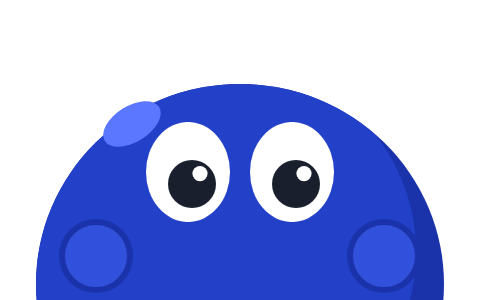
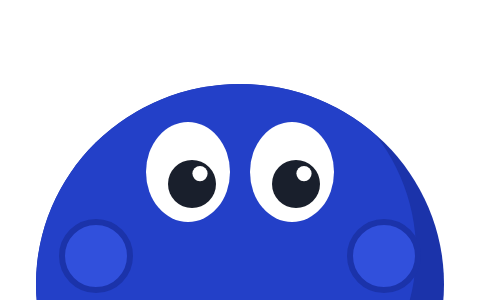
docs(design): drop the highlight on the peeking Peek
Claude-Session: https://claude.ai/code/session_01XX821iReMkUTtA22TbVSA7

Changed region(s): [[0.2188, 0.33, 0.3438, 0.51]]

diff --git a/design/boards/TanyaJe.dc.html b/design/boards/TanyaJe.dc.html
@@ -601,7 +601,7 @@ details.q[open] summary::after{content:'–'}
 
 <form onSubmit="{{ onClaim }}" style="position: relative; display: flex; flex-wrap: wrap; gap: 8px; margin-top: 32px; max-width: 540px">
 <label for="claim-tj" class="sr">The address you want for your page</label>
-<span style="position: relative; flex: 1 1 240px; display: flex; min-height: 56px"><span class="pk" aria-hidden="true" style="width: 78px; right: 26px; top: -41.6px"><svg viewBox="0 0 120 96"><defs><clipPath id="pktany1"><ellipse cx="60" cy="71" rx="51" ry="50"></ellipse></clipPath></defs><g clip-path="url(#pktany1)"><rect x="0" y="10" width="120" height="90" fill="#1b33aa"></rect><ellipse cx="53" cy="63" rx="51" ry="49" fill="#2340c8"></ellipse></g><ellipse cx="33" cy="31" rx="8" ry="4.5" fill="#5b76ff" transform="rotate(-32 33 31)"></ellipse><g class="pk-eyes"><ellipse cx="47" cy="43" rx="10.5" ry="12.5" fill="#fff"></ellipse><ellipse cx="73" cy="43" rx="10.5" ry="12.5" fill="#fff"></ellipse><g class="pk-p"><circle cx="48" cy="46" r="6" fill="#191f2c"></circle><circle cx="74" cy="46" r="6" fill="#191f2c"></circle><circle cx="50" cy="43.4" r="1.9" fill="#fff"></circle><circle cx="76" cy="43.4" r="1.9" fill="#fff"></circle></g></g><g class="pk-happy"><path d="M38 46q9-10.5 18 0M64 46q9-10.5 18 0" fill="none" stroke="#fff" stroke-width="5" stroke-linecap="round"></path></g></svg></span><span class="pk pk-front" aria-hidden="true" style="width: 78px; right: 26px; top: -41.6px"><svg viewBox="0 0 120 96"><g class="pk-hands"><circle cx="24" cy="64" r="8.5"></circle><circle cx="96" cy="64" r="8.5"></circle></g><g class="pk-cover"><circle cx="46" cy="45" r="12.5"></circle><circle cx="74" cy="45" r="12.5"></circle></g></svg></span><span style="position: relative; z-index: 1; flex: 1; display: flex; align-items: center; min-height: 56px; padding: 0 16px; border: 1.5px solid #191f2c; border-radius: 12px; background: #ffffff"><span aria-hidden="true" style="color: #696e7b">curios.my/</span><input id="claim-tj" name="handle" placeholder="yourname" autocomplete="off" style="flex: 1; min-width: 0; height: 52px; border: 0; background: transparent; font: inherit; font-weight: 600; color: #191f2c; outline: none"></span></span>
+<span style="position: relative; flex: 1 1 240px; display: flex; min-height: 56px"><span class="pk" aria-hidden="true" style="width: 78px; right: 26px; top: -41.6px"><svg viewBox="0 0 120 96"><defs><clipPath id="pktany1"><ellipse cx="60" cy="71" rx="51" ry="50"></ellipse></clipPath></defs><g clip-path="url(#pktany1)"><rect x="0" y="10" width="120" height="90" fill="#1b33aa"></rect><ellipse cx="53" cy="63" rx="51" ry="49" fill="#2340c8"></ellipse></g><g class="pk-eyes"><ellipse cx="47" cy="43" rx="10.5" ry="12.5" fill="#fff"></ellipse><ellipse cx="73" cy="43" rx="10.5" ry="12.5" fill="#fff"></ellipse><g class="pk-p"><circle cx="48" cy="46" r="6" fill="#191f2c"></circle><circle cx="74" cy="46" r="6" fill="#191f2c"></circle><circle cx="50" cy="43.4" r="1.9" fill="#fff"></circle><circle cx="76" cy="43.4" r="1.9" fill="#fff"></circle></g></g><g class="pk-happy"><path d="M38 46q9-10.5 18 0M64 46q9-10.5 18 0" fill="none" stroke="#fff" stroke-width="5" stroke-linecap="round"></path></g></svg></span><span class="pk pk-front" aria-hidden="true" style="width: 78px; right: 26px; top: -41.6px"><svg viewBox="0 0 120 96"><g class="pk-hands"><circle cx="24" cy="64" r="8.5"></circle><circle cx="96" cy="64" r="8.5"></circle></g><g class="pk-cover"><circle cx="46" cy="45" r="12.5"></circle><circle cx="74" cy="45" r="12.5"></circle></g></svg></span><span style="position: relative; z-index: 1; flex: 1; display: flex; align-items: center; min-height: 56px; padding: 0 16px; border: 1.5px solid #191f2c; border-radius: 12px; background: #ffffff"><span aria-hidden="true" style="color: #696e7b">curios.my/</span><input id="claim-tj" name="handle" placeholder="yourname" autocomplete="off" style="flex: 1; min-width: 0; height: 52px; border: 0; background: transparent; font: inherit; font-weight: 600; color: #191f2c; outline: none"></span></span>
 <button type="submit" class="btn" onClick="{{ onSpark }}">Claim it, free</button>
 <sc-if value="{{ sparkOn }}" hint-placeholder-val="{{ false }}">
 <span aria-hidden="true" style="position: absolute; left: {{sparkX}}px; top: {{sparkY}}px; width: 0; height: 0">
@@ -1075,7 +1075,7 @@ I’m an illustrator in Ipoh. <mark style="background: {{hl0}}; color: inherit; 
 
 <form onSubmit="{{ onClaim }}" class="cl2-claim">
 <label for="claim-end" class="sr">The address you want for your page</label>
-<span style="position: relative; flex: 1 1 320px; display: flex"><span class="pk" aria-hidden="true" style="width: 104px; right: 40px; top: -55.5px"><svg viewBox="0 0 120 96"><defs><clipPath id="pktany2"><ellipse cx="60" cy="71" rx="51" ry="50"></ellipse></clipPath></defs><g clip-path="url(#pktany2)"><rect x="0" y="10" width="120" height="90" fill="#1b33aa"></rect><ellipse cx="53" cy="63" rx="51" ry="49" fill="#2340c8"></ellipse></g><ellipse cx="33" cy="31" rx="8" ry="4.5" fill="#5b76ff" transform="rotate(-32 33 31)"></ellipse><g class="pk-eyes"><ellipse cx="47" cy="43" rx="10.5" ry="12.5" fill="#fff"></ellipse><ellipse cx="73" cy="43" rx="10.5" ry="12.5" fill="#fff"></ellipse><g class="pk-p"><circle cx="48" cy="46" r="6" fill="#191f2c"></circle><circle cx="74" cy="46" r="6" fill="#191f2c"></circle><circle cx="50" cy="43.4" r="1.9" fill="#fff"></circle><circle cx="76" cy="43.4" r="1.9" fill="#fff"></circle></g></g><g class="pk-happy"><path d="M38 46q9-10.5 18 0M64 46q9-10.5 18 0" fill="none" stroke="#fff" stroke-width="5" stroke-linecap="round"></path></g></svg></span><span class="pk pk-front" aria-hidden="true" style="width: 104px; right: 40px; top: -55.5px"><svg viewBox="0 0 120 96"><g class="pk-hands"><circle cx="24" cy="64" r="8.5"></circle><circle cx="96" cy="64" r="8.5"></circle></g><g class="pk-cover"><circle cx="46" cy="45" r="12.5"></circle><circle cx="74" cy="45" r="12.5"></circle></g></svg></span><span class="cl2-field" style="position: relative; z-index: 1"><span aria-hidden="true">curios.my/</span><input id="claim-end" name="handle" placeholder="yourname" autocomplete="off" maxlength="24"></span></span>
+<span style="position: relative; flex: 1 1 320px; display: flex"><span class="pk" aria-hidden="true" style="width: 104px; right: 40px; top: -55.5px"><svg viewBox="0 0 120 96"><defs><clipPath id="pktany2"><ellipse cx="60" cy="71" rx="51" ry="50"></ellipse></clipPath></defs><g clip-path="url(#pktany2)"><rect x="0" y="10" width="120" height="90" fill="#1b33aa"></rect><ellipse cx="53" cy="63" rx="51" ry="49" fill="#2340c8"></ellipse></g><g class="pk-eyes"><ellipse cx="47" cy="43" rx="10.5" ry="12.5" fill="#fff"></ellipse><ellipse cx="73" cy="43" rx="10.5" ry="12.5" fill="#fff"></ellipse><g class="pk-p"><circle cx="48" cy="46" r="6" fill="#191f2c"></circle><circle cx="74" cy="46" r="6" fill="#191f2c"></circle><circle cx="50" cy="43.4" r="1.9" fill="#fff"></circle><circle cx="76" cy="43.4" r="1.9" fill="#fff"></circle></g></g><g class="pk-happy"><path d="M38 46q9-10.5 18 0M64 46q9-10.5 18 0" fill="none" stroke="#fff" stroke-width="5" stroke-linecap="round"></path></g></svg></span><span class="pk pk-front" aria-hidden="true" style="width: 104px; right: 40px; top: -55.5px"><svg viewBox="0 0 120 96"><g class="pk-hands"><circle cx="24" cy="64" r="8.5"></circle><circle cx="96" cy="64" r="8.5"></circle></g><g class="pk-cover"><circle cx="46" cy="45" r="12.5"></circle><circle cx="74" cy="45" r="12.5"></circle></g></svg></span><span class="cl2-field" style="position: relative; z-index: 1"><span aria-hidden="true">curios.my/</span><input id="claim-end" name="handle" placeholder="yourname" autocomplete="off" maxlength="24"></span></span>
 <span onMouseMove="{{ magnetMove }}" onMouseLeave="{{ magnetLeave }}" style="position: relative; display: inline-block; padding: 12px">
 <button type="submit" class="btn" onClick="{{ onSpark2 }}" style="min-height: 64px; padding: 0 32px; font-size: 18px; background: #eaf0ff; color: #191f2c; transform: translate({{magX}}px, {{magY}}px); transition: transform {{magDur}} cubic-bezier(0.34, 1.4, 0.64, 1)">Claim it, free</button>
 <sc-if value="{{ spark2On }}" hint-placeholder-val="{{ false }}">

diff --git a/design/boards/Main.dc.html b/design/boards/Main.dc.html
@@ -127,7 +127,7 @@ a{color:#191f2c}a:hover{color:#2340c8}
 <h1 id="hero-title" style="margin: 0; max-width: 11ch; font-family: var(--disp); font-size: clamp(41.5px, 24.16px + 4.445vw, 81.06px); font-weight: 800; line-height: 0.98; letter-spacing: -0.04em; color: #122686">{{heroTitle}}</h1>
 <p style="margin: 24px 0 0; max-width: 32em; font-size: 17px; color: #191f2c">For shops that sell on Instagram and WhatsApp. Curios answers your customers in Malay or English from the prices and details you approve, and sends you the number of anyone ready to order.</p>
 <div style="margin-top: 32px">
-<form class="claim" action="/signup" method="get"><span class="pk" aria-hidden="true" style="width: 78px; left: 190px; top: -36px"><svg viewBox="0 0 120 96"><defs><clipPath id="pkmain1"><ellipse cx="60" cy="71" rx="51" ry="50"></ellipse></clipPath></defs><g clip-path="url(#pkmain1)"><rect x="0" y="10" width="120" height="90" fill="#1b33aa"></rect><ellipse cx="53" cy="63" rx="51" ry="49" fill="#2340c8"></ellipse></g><ellipse cx="33" cy="31" rx="8" ry="4.5" fill="#5b76ff" transform="rotate(-32 33 31)"></ellipse><g class="pk-eyes"><ellipse cx="47" cy="43" rx="10.5" ry="12.5" fill="#fff"></ellipse><ellipse cx="73" cy="43" rx="10.5" ry="12.5" fill="#fff"></ellipse><g class="pk-p"><circle cx="48" cy="46" r="6" fill="#191f2c"></circle><circle cx="74" cy="46" r="6" fill="#191f2c"></circle><circle cx="50" cy="43.4" r="1.9" fill="#fff"></circle><circle cx="76" cy="43.4" r="1.9" fill="#fff"></circle></g></g><g class="pk-happy"><path d="M38 46q9-10.5 18 0M64 46q9-10.5 18 0" fill="none" stroke="#fff" stroke-width="5" stroke-linecap="round"></path></g></svg></span><span class="pk pk-front" aria-hidden="true" style="width: 78px; left: 190px; top: -36px"><svg viewBox="0 0 120 96"><g class="pk-hands"><circle cx="24" cy="64" r="8.5"></circle><circle cx="96" cy="64" r="8.5"></circle></g><g class="pk-cover"><circle cx="46" cy="45" r="12.5"></circle><circle cx="74" cy="45" r="12.5"></circle></g></svg></span>
+<form class="claim" action="/signup" method="get"><span class="pk" aria-hidden="true" style="width: 78px; left: 190px; top: -36px"><svg viewBox="0 0 120 96"><defs><clipPath id="pkmain1"><ellipse cx="60" cy="71" rx="51" ry="50"></ellipse></clipPath></defs><g clip-path="url(#pkmain1)"><rect x="0" y="10" width="120" height="90" fill="#1b33aa"></rect><ellipse cx="53" cy="63" rx="51" ry="49" fill="#2340c8"></ellipse></g><g class="pk-eyes"><ellipse cx="47" cy="43" rx="10.5" ry="12.5" fill="#fff"></ellipse><ellipse cx="73" cy="43" rx="10.5" ry="12.5" fill="#fff"></ellipse><g class="pk-p"><circle cx="48" cy="46" r="6" fill="#191f2c"></circle><circle cx="74" cy="46" r="6" fill="#191f2c"></circle><circle cx="50" cy="43.4" r="1.9" fill="#fff"></circle><circle cx="76" cy="43.4" r="1.9" fill="#fff"></circle></g></g><g class="pk-happy"><path d="M38 46q9-10.5 18 0M64 46q9-10.5 18 0" fill="none" stroke="#fff" stroke-width="5" stroke-linecap="round"></path></g></svg></span><span class="pk pk-front" aria-hidden="true" style="width: 78px; left: 190px; top: -36px"><svg viewBox="0 0 120 96"><g class="pk-hands"><circle cx="24" cy="64" r="8.5"></circle><circle cx="96" cy="64" r="8.5"></circle></g><g class="pk-cover"><circle cx="46" cy="45" r="12.5"></circle><circle cx="74" cy="45" r="12.5"></circle></g></svg></span>
 <label for="claim-hero" class="sr">The address you want for your page</label>
 <div class="field"><span aria-hidden="true" style="color: #696e7b">curios.my/</span><input id="claim-hero" name="handle" placeholder="yourshop" autocomplete="off"></div>
 <button type="submit" class="btn" style="background: #2340c8; color: #fafbfc">Create your free page</button>
@@ -369,7 +369,7 @@ a{color:#191f2c}a:hover{color:#2340c8}
 <div class="wrap">
 <h2 id="final-title" style="margin: 0; max-width: 14ch; font-family: var(--disp); font-size: clamp(41.5px, 24.16px + 4.445vw, 81.06px); font-weight: 800; line-height: 0.98; letter-spacing: -0.04em; color: #eaf0ff">Put your price list in your bio link.</h2>
 <p style="margin: 24px 0 40px; max-width: 30em; font-size: 21.25px; color: #bfd1f9">Paste your website or a few paragraphs about your shop, approve the facts it finds, and share the link.</p>
-<form class="claim" action="/signup" method="get"><span class="pk" aria-hidden="true" style="width: 78px; left: 190px; top: -36px"><svg viewBox="0 0 120 96"><defs><clipPath id="pkmain2"><ellipse cx="60" cy="71" rx="51" ry="50"></ellipse></clipPath></defs><g clip-path="url(#pkmain2)"><rect x="0" y="10" width="120" height="90" fill="#1b33aa"></rect><ellipse cx="53" cy="63" rx="51" ry="49" fill="#2340c8"></ellipse></g><ellipse cx="33" cy="31" rx="8" ry="4.5" fill="#5b76ff" transform="rotate(-32 33 31)"></ellipse><g class="pk-eyes"><ellipse cx="47" cy="43" rx="10.5" ry="12.5" fill="#fff"></ellipse><ellipse cx="73" cy="43" rx="10.5" ry="12.5" fill="#fff"></ellipse><g class="pk-p"><circle cx="48" cy="46" r="6" fill="#191f2c"></circle><circle cx="74" cy="46" r="6" fill="#191f2c"></circle><circle cx="50" cy="43.4" r="1.9" fill="#fff"></circle><circle cx="76" cy="43.4" r="1.9" fill="#fff"></circle></g></g><g class="pk-happy"><path d="M38 46q9-10.5 18 0M64 46q9-10.5 18 0" fill="none" stroke="#fff" stroke-width="5" stroke-linecap="round"></path></g></svg></span><span class="pk pk-front" aria-hidden="true" style="width: 78px; left: 190px; top: -36px"><svg viewBox="0 0 120 96"><g class="pk-hands"><circle cx="24" cy="64" r="8.5"></circle><circle cx="96" cy="64" r="8.5"></circle></g><g class="pk-cover"><circle cx="46" cy="45" r="12.5"></circle><circle cx="74" cy="45" r="12.5"></circle></g></svg></span>
+<form class="claim" action="/signup" method="get"><span class="pk" aria-hidden="true" style="width: 78px; left: 190px; top: -36px"><svg viewBox="0 0 120 96"><defs><clipPath id="pkmain2"><ellipse cx="60" cy="71" rx="51" ry="50"></ellipse></clipPath></defs><g clip-path="url(#pkmain2)"><rect x="0" y="10" width="120" height="90" fill="#1b33aa"></rect><ellipse cx="53" cy="63" rx="51" ry="49" fill="#2340c8"></ellipse></g><g class="pk-eyes"><ellipse cx="47" cy="43" rx="10.5" ry="12.5" fill="#fff"></ellipse><ellipse cx="73" cy="43" rx="10.5" ry="12.5" fill="#fff"></ellipse><g class="pk-p"><circle cx="48" cy="46" r="6" fill="#191f2c"></circle><circle cx="74" cy="46" r="6" fill="#191f2c"></circle><circle cx="50" cy="43.4" r="1.9" fill="#fff"></circle><circle cx="76" cy="43.4" r="1.9" fill="#fff"></circle></g></g><g class="pk-happy"><path d="M38 46q9-10.5 18 0M64 46q9-10.5 18 0" fill="none" stroke="#fff" stroke-width="5" stroke-linecap="round"></path></g></svg></span><span class="pk pk-front" aria-hidden="true" style="width: 78px; left: 190px; top: -36px"><svg viewBox="0 0 120 96"><g class="pk-hands"><circle cx="24" cy="64" r="8.5"></circle><circle cx="96" cy="64" r="8.5"></circle></g><g class="pk-cover"><circle cx="46" cy="45" r="12.5"></circle><circle cx="74" cy="45" r="12.5"></circle></g></svg></span>
 <label for="claim-final" class="sr">The address you want for your page</label>
 <div class="field" style="box-shadow: none"><span aria-hidden="true" style="color: #696e7b">curios.my/</span><input id="claim-final" name="handle" placeholder="yourshop" autocomplete="off"></div>
 <button type="submit" class="btn" style="background: #eaf0ff; color: #122686">Create your free page</button>

diff --git a/design/boards/SignUp.dc.html b/design/boards/SignUp.dc.html
@@ -202,7 +202,7 @@ a{color:#2340c8}a:hover{color:#122686}
 <a class="g-btn" href="#google" style="margin-top: 24px"><svg aria-hidden="true" viewBox="0 0 24 24" width="20" height="20"><path fill="#4285F4" d="M22.6 12.2c0-.8-.1-1.5-.2-2.2H12v4.2h5.9a5 5 0 0 1-2.2 3.3v2.7h3.6c2.1-1.9 3.3-4.8 3.3-8z"></path><path fill="#34A853" d="M12 23c3 0 5.5-1 7.3-2.7l-3.6-2.7c-1 .7-2.2 1.1-3.7 1.1-2.9 0-5.3-1.9-6.2-4.5H2.1v2.8A11 11 0 0 0 12 23z"></path><path fill="#FBBC05" d="M5.8 14.2a6.6 6.6 0 0 1 0-4.3V7.1H2.1a11 11 0 0 0 0 9.9z"></path><path fill="#EA4335" d="M12 5.4c1.6 0 3.1.6 4.2 1.7l3.2-3.2A11 11 0 0 0 2.1 7.1l3.7 2.8C6.7 7.3 9.1 5.4 12 5.4z"></path></svg>Continue with Google</a>
 <p class="or">or with email</p>
 <form onSubmit="{{ submit }}">
-<label class="fld" style="position: relative"><span>Email</span><span class="pk" aria-hidden="true" style="width: 84px; right: 18px; top: -18.8px"><svg viewBox="0 0 120 96"><defs><clipPath id="pksign1"><ellipse cx="60" cy="71" rx="51" ry="50"></ellipse></clipPath></defs><g clip-path="url(#pksign1)"><rect x="0" y="10" width="120" height="90" fill="#1b33aa"></rect><ellipse cx="53" cy="63" rx="51" ry="49" fill="#2340c8"></ellipse></g><ellipse cx="33" cy="31" rx="8" ry="4.5" fill="#5b76ff" transform="rotate(-32 33 31)"></ellipse><g class="pk-eyes"><ellipse cx="47" cy="43" rx="10.5" ry="12.5" fill="#fff"></ellipse><ellipse cx="73" cy="43" rx="10.5" ry="12.5" fill="#fff"></ellipse><g class="pk-p"><circle cx="48" cy="46" r="6" fill="#191f2c"></circle><circle cx="74" cy="46" r="6" fill="#191f2c"></circle><circle cx="50" cy="43.4" r="1.9" fill="#fff"></circle><circle cx="76" cy="43.4" r="1.9" fill="#fff"></circle></g></g><g class="pk-happy"><path d="M38 46q9-10.5 18 0M64 46q9-10.5 18 0" fill="none" stroke="#fff" stroke-width="5" stroke-linecap="round"></path></g></svg></span><span class="pk pk-front" aria-hidden="true" style="width: 84px; right: 18px; top: -18.8px"><svg viewBox="0 0 120 96"><g class="pk-hands"><circle cx="24" cy="64" r="8.5"></circle><circle cx="96" cy="64" r="8.5"></circle></g><g class="pk-cover"><circle cx="46" cy="45" r="12.5"></circle><circle cx="74" cy="45" r="12.5"></circle></g></svg></span><span class="inp" style="position: relative; z-index: 1"><input type="email" autocomplete="email" placeholder="you@example.com" value="{{ email }}" onChange="{{ setEmail }}" required></span></label>
+<label class="fld" style="position: relative"><span>Email</span><span class="pk" aria-hidden="true" style="width: 84px; right: 18px; top: -18.8px"><svg viewBox="0 0 120 96"><defs><clipPath id="pksign1"><ellipse cx="60" cy="71" rx="51" ry="50"></ellipse></clipPath></defs><g clip-path="url(#pksign1)"><rect x="0" y="10" width="120" height="90" fill="#1b33aa"></rect><ellipse cx="53" cy="63" rx="51" ry="49" fill="#2340c8"></ellipse></g><g class="pk-eyes"><ellipse cx="47" cy="43" rx="10.5" ry="12.5" fill="#fff"></ellipse><ellipse cx="73" cy="43" rx="10.5" ry="12.5" fill="#fff"></ellipse><g class="pk-p"><circle cx="48" cy="46" r="6" fill="#191f2c"></circle><circle cx="74" cy="46" r="6" fill="#191f2c"></circle><circle cx="50" cy="43.4" r="1.9" fill="#fff"></circle><circle cx="76" cy="43.4" r="1.9" fill="#fff"></circle></g></g><g class="pk-happy"><path d="M38 46q9-10.5 18 0M64 46q9-10.5 18 0" fill="none" stroke="#fff" stroke-width="5" stroke-linecap="round"></path></g></svg></span><span class="pk pk-front" aria-hidden="true" style="width: 84px; right: 18px; top: -18.8px"><svg viewBox="0 0 120 96"><g class="pk-hands"><circle cx="24" cy="64" r="8.5"></circle><circle cx="96" cy="64" r="8.5"></circle></g><g class="pk-cover"><circle cx="46" cy="45" r="12.5"></circle><circle cx="74" cy="45" r="12.5"></circle></g></svg></span><span class="inp" style="position: relative; z-index: 1"><input type="email" autocomplete="email" placeholder="you@example.com" value="{{ email }}" onChange="{{ setEmail }}" required></span></label>
 <label class="fld" for="pw-up"><span>Password</span><span class="inp"><input id="pw-up" type="{{pwType}}" autocomplete="new-password" required><button type="button" class="eye" aria-label="{{eyeLabel}}" onClick="{{ toggleEye }}"><svg viewBox="0 0 24 24" width="18" height="18" fill="none" stroke="currentColor" stroke-width="2" stroke-linecap="round" stroke-linejoin="round"><path d="M2 12s3.6-7 10-7 10 7 10 7-3.6 7-10 7S2 12 2 12z"></path><circle cx="12" cy="12" r="3"></circle></svg></button></span></label>
 <button type="submit" class="go" disabled="{{ busy }}"><sc-if value="{{ busy }}" hint-placeholder-val="{{ false }}"><span class="spin" aria-hidden="true"></span></sc-if>{{goLabel}}</button>
 </form>

diff --git a/design/boards/SignIn.dc.html b/design/boards/SignIn.dc.html
@@ -200,7 +200,7 @@ a{color:#2340c8}a:hover{color:#122686}
 <a class="g-btn" href="#google"><svg aria-hidden="true" viewBox="0 0 24 24" width="20" height="20"><path fill="#4285F4" d="M22.6 12.2c0-.8-.1-1.5-.2-2.2H12v4.2h5.9a5 5 0 0 1-2.2 3.3v2.7h3.6c2.1-1.9 3.3-4.8 3.3-8z"></path><path fill="#34A853" d="M12 23c3 0 5.5-1 7.3-2.7l-3.6-2.7c-1 .7-2.2 1.1-3.7 1.1-2.9 0-5.3-1.9-6.2-4.5H2.1v2.8A11 11 0 0 0 12 23z"></path><path fill="#FBBC05" d="M5.8 14.2a6.6 6.6 0 0 1 0-4.3V7.1H2.1a11 11 0 0 0 0 9.9z"></path><path fill="#EA4335" d="M12 5.4c1.6 0 3.1.6 4.2 1.7l3.2-3.2A11 11 0 0 0 2.1 7.1l3.7 2.8C6.7 7.3 9.1 5.4 12 5.4z"></path></svg>Continue with Google</a>
 <p class="or">or with email</p>
 <form onSubmit="{{ submit }}">
-<label class="fld" style="position: relative"><span>Email</span><span class="pk" aria-hidden="true" style="width: 84px; right: 18px; top: -18.8px"><svg viewBox="0 0 120 96"><defs><clipPath id="pksign1"><ellipse cx="60" cy="71" rx="51" ry="50"></ellipse></clipPath></defs><g clip-path="url(#pksign1)"><rect x="0" y="10" width="120" height="90" fill="#1b33aa"></rect><ellipse cx="53" cy="63" rx="51" ry="49" fill="#2340c8"></ellipse></g><ellipse cx="33" cy="31" rx="8" ry="4.5" fill="#5b76ff" transform="rotate(-32 33 31)"></ellipse><g class="pk-eyes"><ellipse cx="47" cy="43" rx="10.5" ry="12.5" fill="#fff"></ellipse><ellipse cx="73" cy="43" rx="10.5" ry="12.5" fill="#fff"></ellipse><g class="pk-p"><circle cx="48" cy="46" r="6" fill="#191f2c"></circle><circle cx="74" cy="46" r="6" fill="#191f2c"></circle><circle cx="50" cy="43.4" r="1.9" fill="#fff"></circle><circle cx="76" cy="43.4" r="1.9" fill="#fff"></circle></g></g><g class="pk-happy"><path d="M38 46q9-10.5 18 0M64 46q9-10.5 18 0" fill="none" stroke="#fff" stroke-width="5" stroke-linecap="round"></path></g></svg></span><span class="pk pk-front" aria-hidden="true" style="width: 84px; right: 18px; top: -18.8px"><svg viewBox="0 0 120 96"><g class="pk-hands"><circle cx="24" cy="64" r="8.5"></circle><circle cx="96" cy="64" r="8.5"></circle></g><g class="pk-cover"><circle cx="46" cy="45" r="12.5"></circle><circle cx="74" cy="45" r="12.5"></circle></g></svg></span><span class="inp" style="position: relative; z-index: 1"><input type="email" autocomplete="email" placeholder="you@example.com" required></span></label>
+<label class="fld" style="position: relative"><span>Email</span><span class="pk" aria-hidden="true" style="width: 84px; right: 18px; top: -18.8px"><svg viewBox="0 0 120 96"><defs><clipPath id="pksign1"><ellipse cx="60" cy="71" rx="51" ry="50"></ellipse></clipPath></defs><g clip-path="url(#pksign1)"><rect x="0" y="10" width="120" height="90" fill="#1b33aa"></rect><ellipse cx="53" cy="63" rx="51" ry="49" fill="#2340c8"></ellipse></g><g class="pk-eyes"><ellipse cx="47" cy="43" rx="10.5" ry="12.5" fill="#fff"></ellipse><ellipse cx="73" cy="43" rx="10.5" ry="12.5" fill="#fff"></ellipse><g class="pk-p"><circle cx="48" cy="46" r="6" fill="#191f2c"></circle><circle cx="74" cy="46" r="6" fill="#191f2c"></circle><circle cx="50" cy="43.4" r="1.9" fill="#fff"></circle><circle cx="76" cy="43.4" r="1.9" fill="#fff"></circle></g></g><g class="pk-happy"><path d="M38 46q9-10.5 18 0M64 46q9-10.5 18 0" fill="none" stroke="#fff" stroke-width="5" stroke-linecap="round"></path></g></svg></span><span class="pk pk-front" aria-hidden="true" style="width: 84px; right: 18px; top: -18.8px"><svg viewBox="0 0 120 96"><g class="pk-hands"><circle cx="24" cy="64" r="8.5"></circle><circle cx="96" cy="64" r="8.5"></circle></g><g class="pk-cover"><circle cx="46" cy="45" r="12.5"></circle><circle cx="74" cy="45" r="12.5"></circle></g></svg></span><span class="inp" style="position: relative; z-index: 1"><input type="email" autocomplete="email" placeholder="you@example.com" required></span></label>
 <label class="fld" for="pw-in"><span>Password <a href="#forgot">Forgot your password?</a></span><span class="inp"><input id="pw-in" type="{{pwType}}" autocomplete="current-password" required><button type="button" class="eye" aria-label="{{eyeLabel}}" onClick="{{ toggleEye }}"><svg viewBox="0 0 24 24" width="18" height="18" fill="none" stroke="currentColor" stroke-width="2" stroke-linecap="round" stroke-linejoin="round"><path d="M2 12s3.6-7 10-7 10 7 10 7-3.6 7-10 7S2 12 2 12z"></path><circle cx="12" cy="12" r="3"></circle></svg></button></span></label>
 <button type="submit" class="go" disabled="{{ busy }}"><sc-if value="{{ busy }}" hint-placeholder-val="{{ false }}"><span class="spin" aria-hidden="true"></span></sc-if>{{goLabel}}</button>
 </form>

diff --git a/design/HANDOFF.md b/design/HANDOFF.md
@@ -269,7 +269,7 @@ rows in `DEVIATIONS.md` that touch the Shop tab, the item sheet, the preview's t
 - Build it as two layers: the body (`.pk`, z 0) behind the field, and the hands (`.pk-front`,
   z 3) in front. The edge sits at 64 of 96 in the viewBox.
 - The peeking form uses the same flat style as the full body: the top of the round ball, a
-  darker crescent (#1b33aa) on the right, a small highlight on the top left, big oval eyes,
+  darker crescent (#1b33aa) on the right (no highlight here), big oval eyes,
   and two round hands (#3150dc with a thin #1b33aa outline) resting on the edge. Copy the
   SVG from the boards.
 - It slides up once on load. Reduced motion turns this and the eye movement off.
